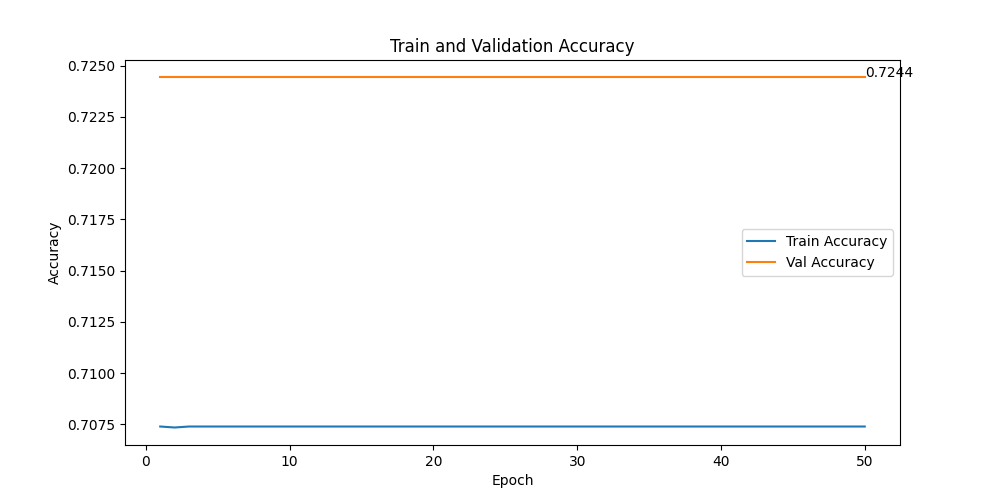
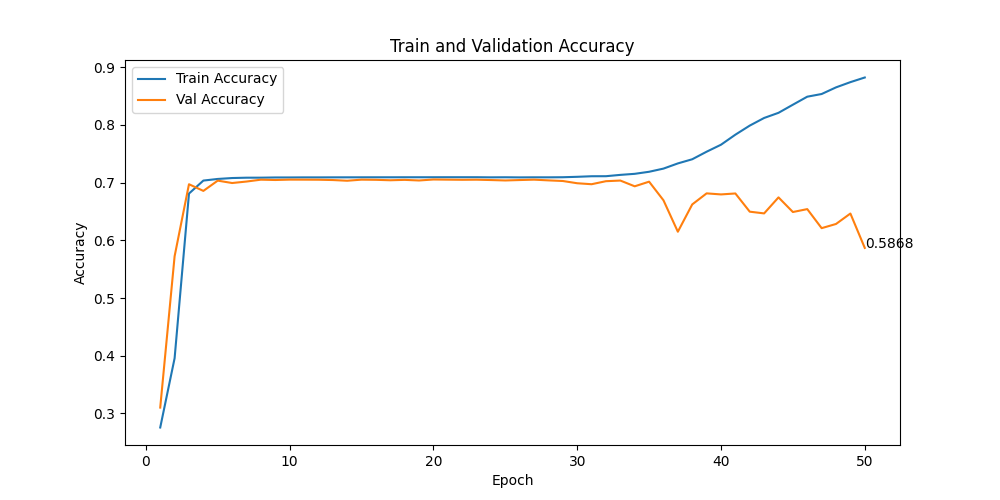
another rotation

diff --git a/unet_train_noise.py b/unet_train_noise.py
@@ -20,8 +20,7 @@ from PIL import Image
 import time
 import torch
 # import unet
-import unet_architecture
-from unet_architecture import Unet
+from unet_batchnorm_architecture import Unet_batch as Unet
 
 # GPU
 use_cuda = torch.cuda.is_available()
@@ -147,7 +146,7 @@ def accuracy(outputs, labels):
 
 # Function to add Gaussian noise to images
 def add_gaussian_noise(image, mean=0, std=1):
-    noise = torch.randn(image.size()) * std + mean
+    noise = torch.randn(image.size(), device=image.device) * std + mean
     noisy_image = image + noise
     return noisy_image
 
@@ -237,37 +236,37 @@ plt.legend()
 plt.text(n_epochs, val_accuracies[-1], f'{val_accuracies[-1]:.4f}')
 plt.savefig('figures/unet_accuracyflip.png')
 
-# For just 1 image, show the original, the label and the prediction side by side
-net.eval()
-with torch.no_grad():
-    for images, labels in test_loader:
-        images, labels = get_variable(images), get_variable(labels)
-        outputs = net(images)
-        break
+# # For just 1 image, show the original, the label and the prediction side by side
+# net.eval()
+# with torch.no_grad():
+#     for images, labels in test_loader:
+#         images, labels = get_variable(images), get_variable(labels)
+#         outputs = net(images)
+#         break
     
-image = images[0].squeeze().cpu().numpy()
-label = labels[0].squeeze().cpu().numpy()
-output = outputs[0].squeeze().cpu().numpy()
+# image = images[0].squeeze().cpu().numpy()
+# label = labels[0].squeeze().cpu().numpy()
+# output = outputs[0].squeeze().cpu().numpy()
 
-# Rearrange dimensions from (3, 256, 256) to (256, 256, 3)
-image = np.transpose(image, (1, 2, 0))  # If image shape is (3, 256, 256)
-label = np.transpose(label, (1, 2, 0))  # If label shape is (3, 256, 256)
-output = np.transpose(output, (1, 2, 0))  # If output shape is (3, 256, 256)
+# # Rearrange dimensions from (3, 256, 256) to (256, 256, 3)
+# image = np.transpose(image, (1, 2, 0))  # If image shape is (3, 256, 256)
+# label = np.transpose(label, (1, 2, 0))  # If label shape is (3, 256, 256)
+# output = np.transpose(output, (1, 2, 0))  # If output shape is (3, 256, 256)
 
-fig, axes = plt.subplots(1, 3, figsize=(12, 4))
+# fig, axes = plt.subplots(1, 3, figsize=(12, 4))
 
-axes[0].imshow(image, cmap='gray')
-axes[0].set_title('Original Image')
-axes[0].axis('off')
+# axes[0].imshow(image, cmap='gray')
+# axes[0].set_title('Original Image')
+# axes[0].axis('off')
 
-axes[1].imshow(label, cmap='gray')
-axes[1].set_title('Actual Label')
-axes[1].axis('off')
+# axes[1].imshow(label, cmap='gray')
+# axes[1].set_title('Actual Label')
+# axes[1].axis('off')
 
-axes[2].imshow(output, cmap='gray')
-axes[2].set_title('Predicted Label')
-axes[2].axis('off')
+# axes[2].imshow(output, cmap='gray')
+# axes[2].set_title('Predicted Label')
+# axes[2].axis('off')
 
-plt.tight_layout()
-# Save the figure to the 'Figures' folder
-plt.savefig('figures/unet_sample_prediction.png')
+# plt.tight_layout()
+# # Save the figure to the 'Figures' folder
+# plt.savefig('figures/unet_sample_prediction.png')
